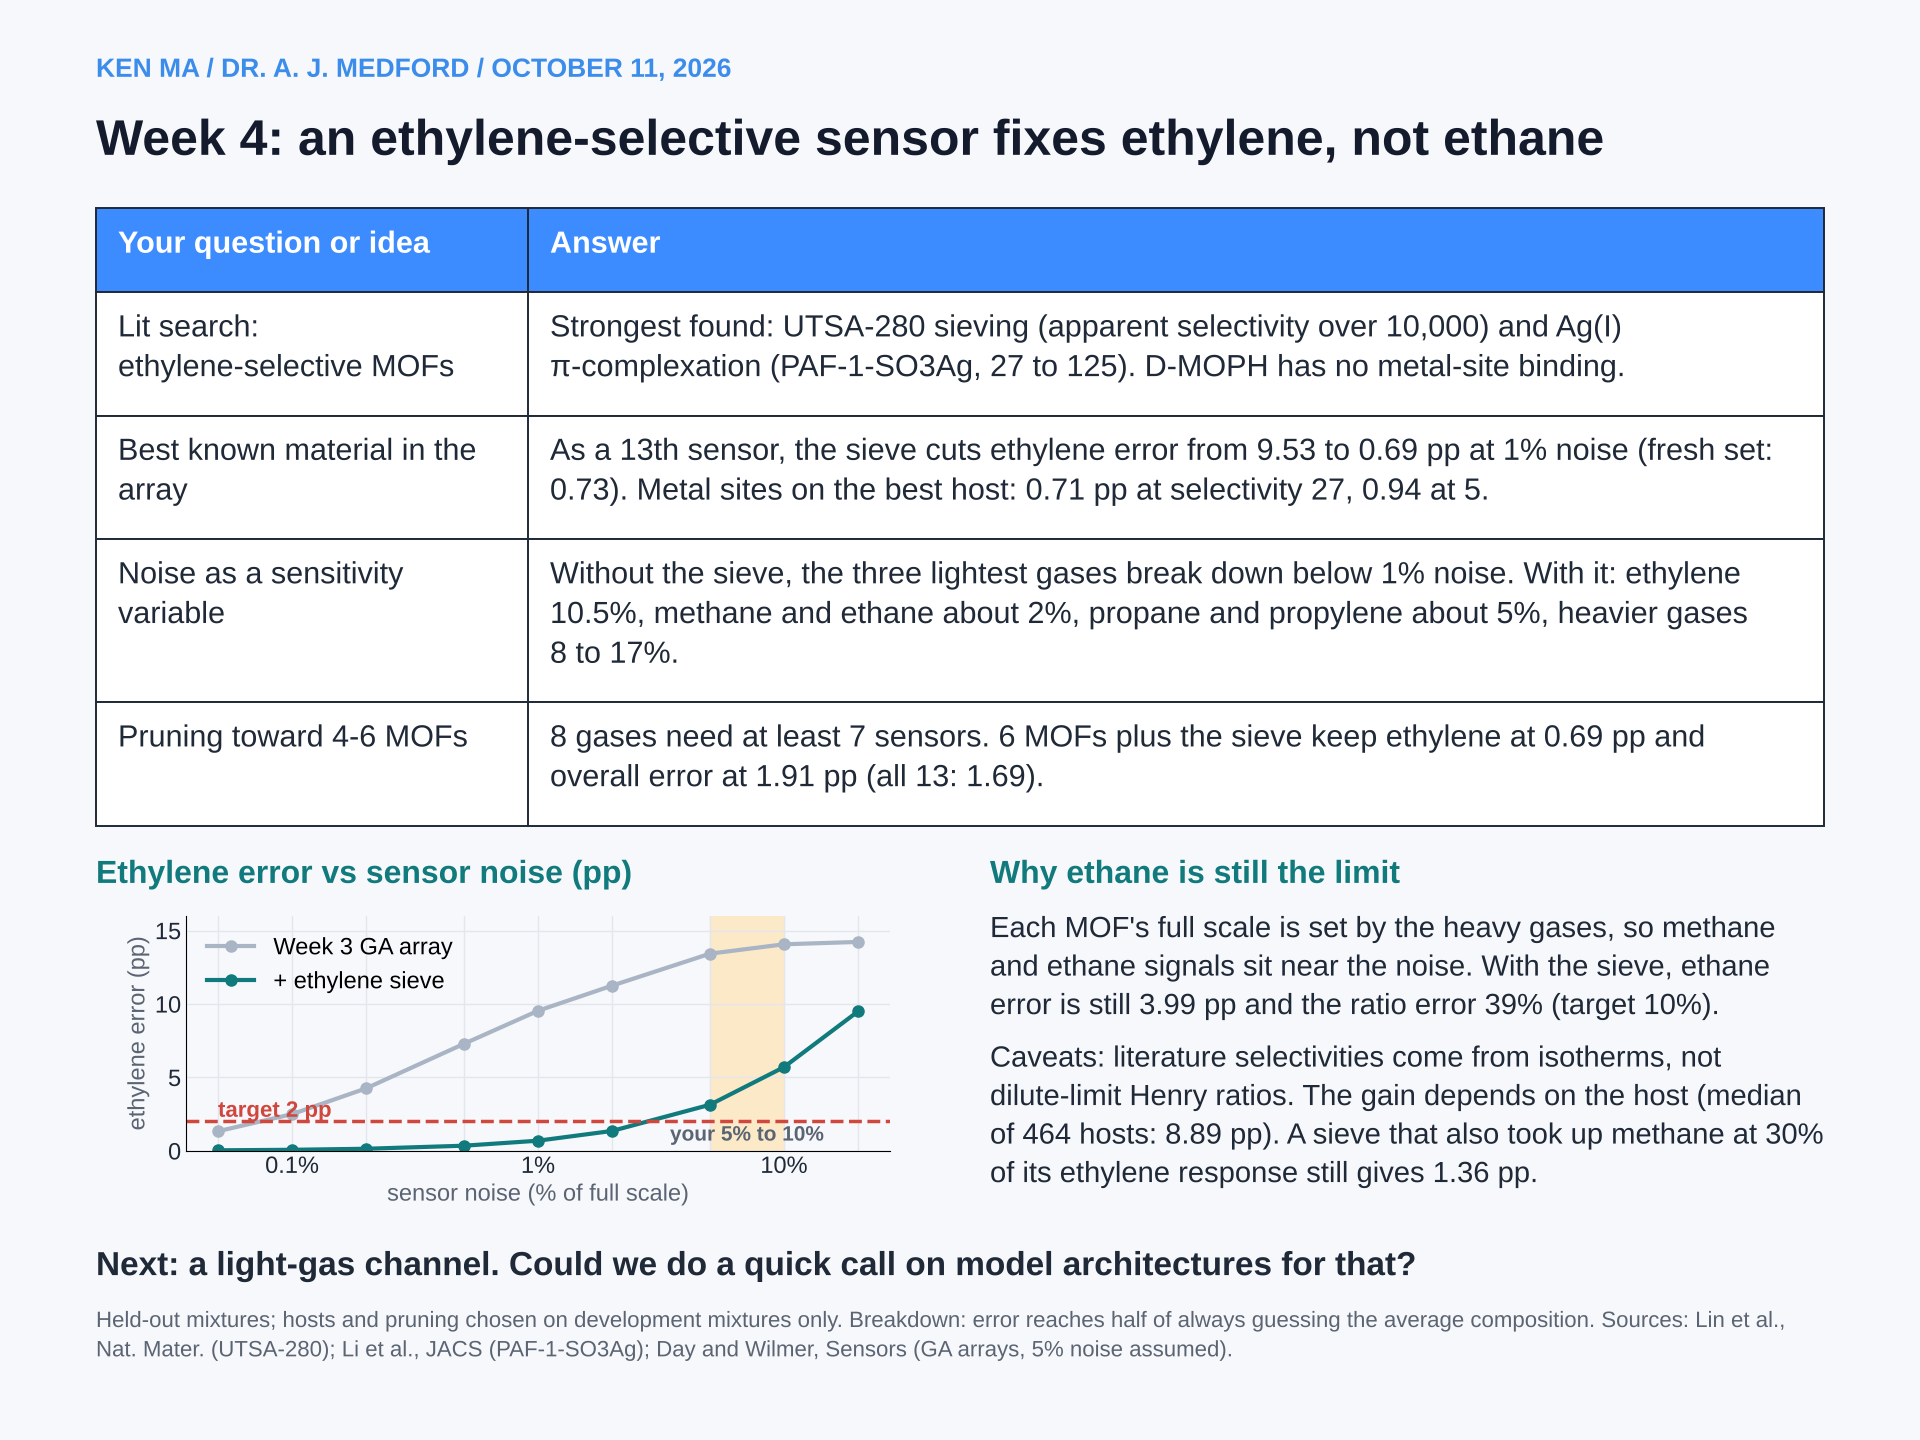
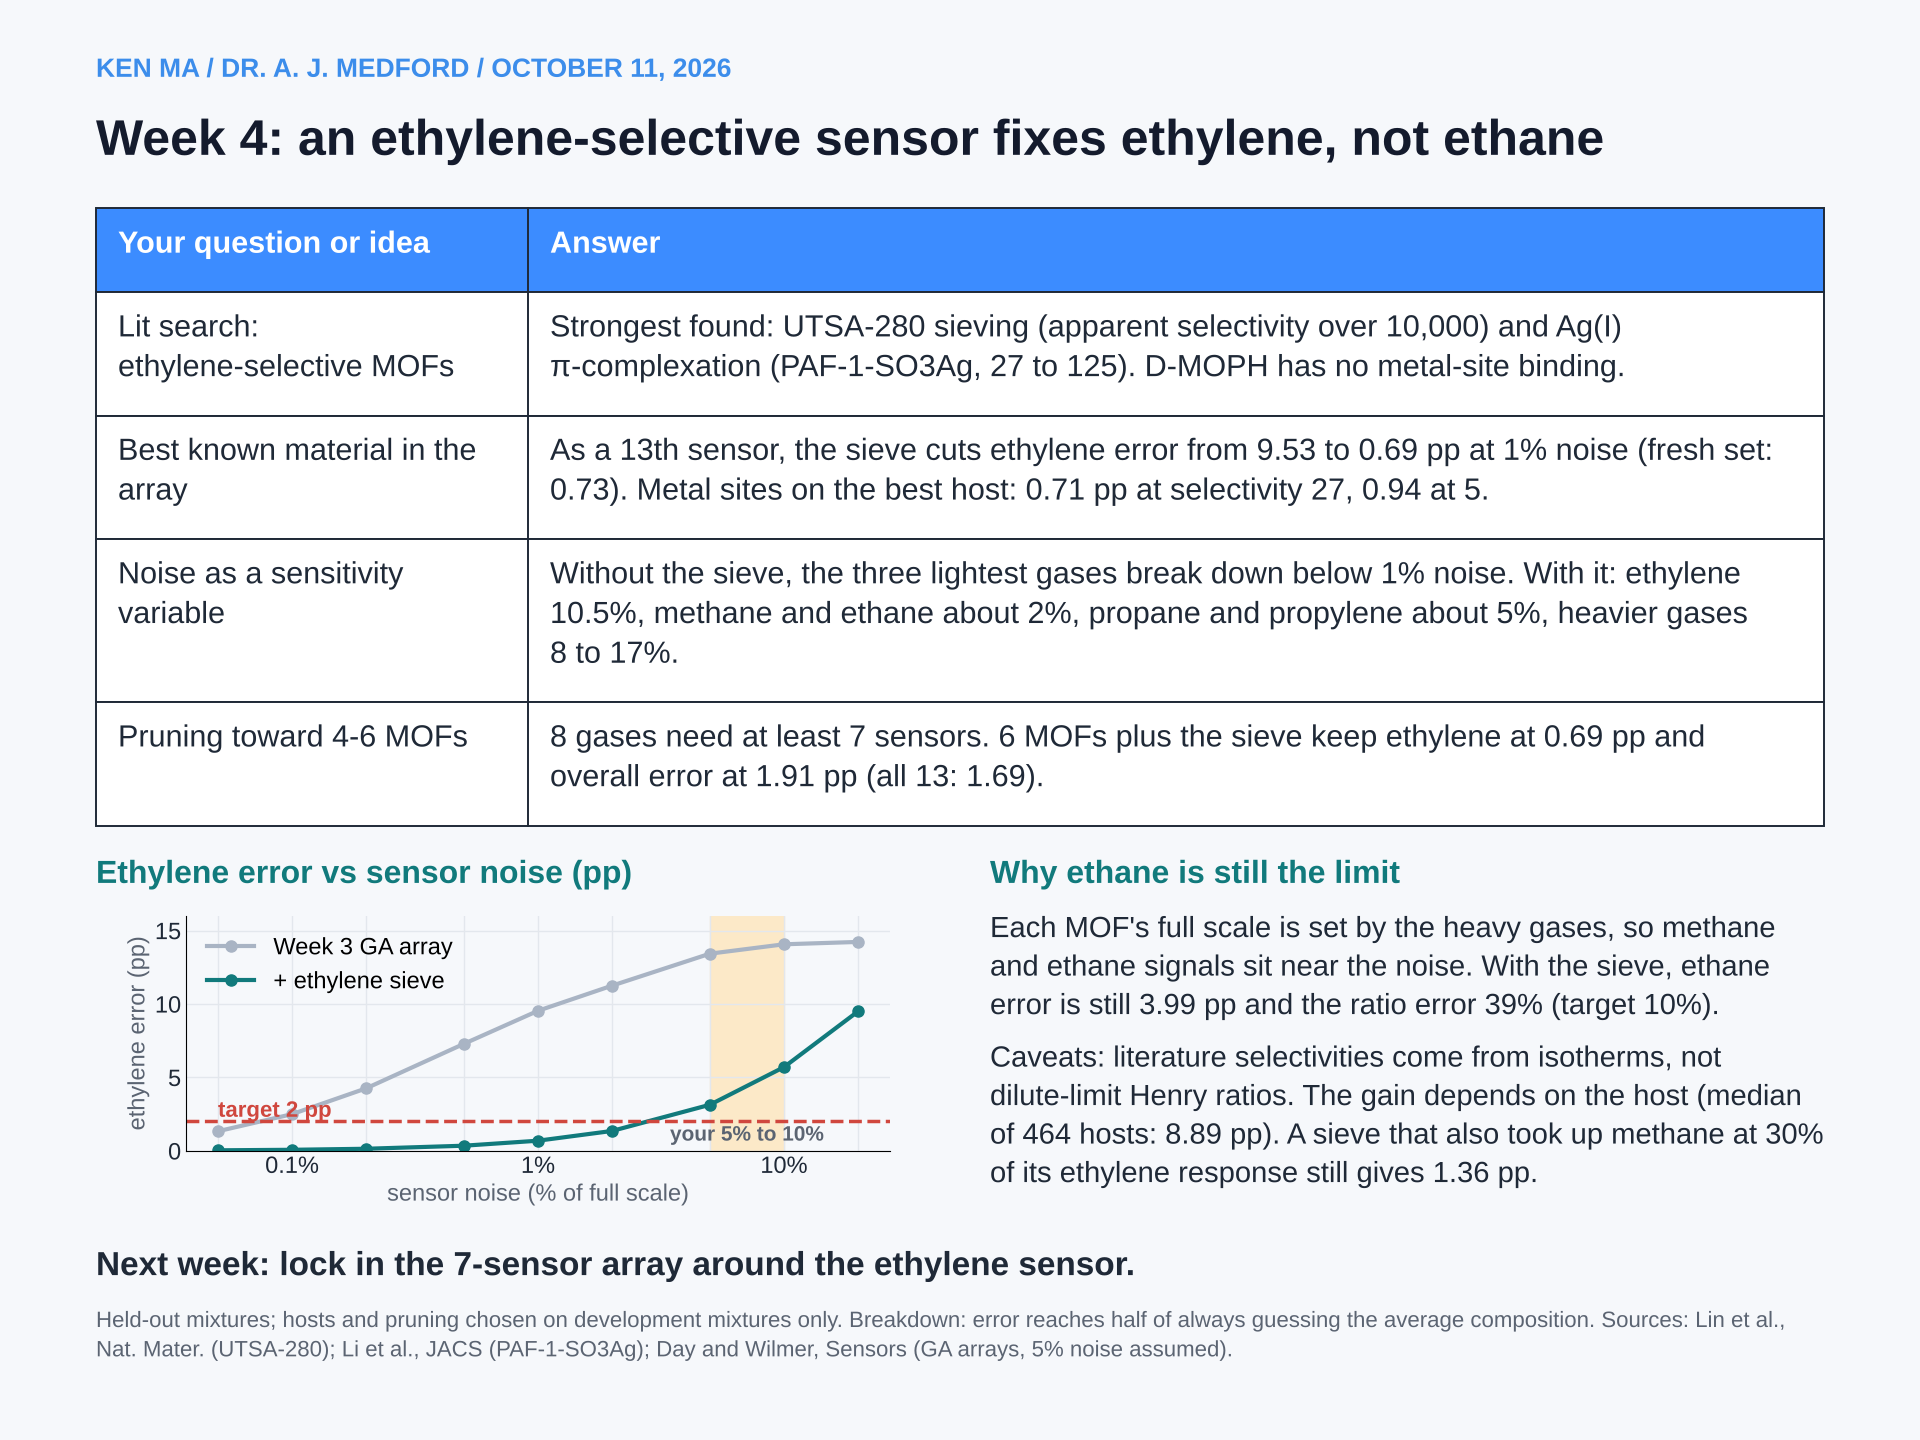
docs(week04): record Ken's decisions and simplify the card's closing line
Ethylene is the priority gas. Ken writes and sends the Slack message himself,
so the call question comes off the card and the closing line is now a simple
next-week plan: lock in the 7-sensor array around the ethylene sensor.

Claude-Session: https://claude.ai/code/session_01QZANQ5hB7ETPXgfPWAF1tu

Changed region(s): [[0.0938, 0.875, 0.7188, 0.9062]]

diff --git a/weeks/04/deliverables.py b/weeks/04/deliverables.py
@@ -116,7 +116,7 @@ card = [
                  f"host (median of {num(spread['n_frameworks'])} hosts: {pp(spread['median'])} pp). A sieve that also took up methane "
                  f"at {R.num(100*methane_fraction, '{:.0f}%')} of its ethylene response still gives {pp(methane30)} pp.", body),
     ], .5),
-    ('text', 'Next: a light-gas channel. Could we do a quick call on model architectures for that?',
+    ('text', f"Next week: lock in the {num(pruned['size'])}-sensor array around the ethylene sensor.",
      {'size': 24, 'weight': 'bold', 'after': 16}),
     ('text', "Held-out mixtures; hosts and pruning chosen on development mixtures only. "
              f"Breakdown: error reaches half of always guessing the average composition. Sources: Lin et al., Nat. Mater. (UTSA-280); "
@@ -131,7 +131,6 @@ TL;DR:
 - Adding one of these as a {added_n}th sensor cuts ethylene error from {pp(ga_e)} to {pp(sieve_e)} pp at {one} noise, and {num(pruned['size']-1)} MOFs plus that sensor hold it there.
 - Treating noise as the variable: ethylene now holds up to {noise(breakdown('ga+sieve', 'ethene'), '{:.1f}%')} noise, but methane and ethane break down near {noise(breakdown('ga+sieve', 'methane'), '{:.0f}%')}, so ethane ({pp(sieve_ethane)} pp) and the ratio are still the limit.
 
-Question: would you be open to a quick call this week? I'd love to hear what model architectures you'd propose for the next step, like using ODAC/UMA to screen frameworks that could host these ethylene sites, or a learned model in place of the least squares inversion.
 """
 
 name = f"week{int(r['week'])}_onepager"

diff --git a/notes/decisions.md b/notes/decisions.md
@@ -84,7 +84,12 @@
 
 - Ken's decision, recorded word for word: "dont send it broi, we need to do our weekly research and continue with the agenda and then ill approve"
 - Ken's decision, recorded word for word: "find the repos urself and run the research"
-- Pending Ken's approval: `weeks/04/slack_draft.md` (typed into the Slack DM composer, not sent) with `weeks/04/week4_onepager.png` as the attachment.
+- Ken's decision, recorded word for word: "Ethylene matters more" (his answer to Dr. Medford's question about how critical the ethane/ethylene pair is; ethylene stays a separate target rather than being lumped with ethane)
+- Ken's decision, recorded word for word: "I will write it myself" (Ken writes the Slack message; `weeks/04/slack_draft.md` is reference only)
+- Ken's decision, recorded word for word: "remove the next thing, i can ask myself" (the call question about model architectures was removed from the card; Ken asks Dr. Medford himself)
+- Ken's decision, recorded word for word: "ill send it myself"
+- Ken's decision, recorded word for word: "Make it simpler for the next weeks plan thing" (the card now ends with next week's plan: lock in the 7-sensor array around the ethylene sensor)
+- Ken's decision, recorded word for word: "push it , we are connected to github bro"
 
 ### AI decisions
 

diff --git a/weeks/04/slack_draft.md b/weeks/04/slack_draft.md
@@ -5,4 +5,3 @@ TL;DR:
 - Adding one of these as a 13th sensor cuts ethylene error from 9.53 to 0.69 pp at 1% noise, and 6 MOFs plus that sensor hold it there.
 - Treating noise as the variable: ethylene now holds up to 10.5% noise, but methane and ethane break down near 2%, so ethane (3.99 pp) and the ratio are still the limit.
 
-Question: would you be open to a quick call this week? I'd love to hear what model architectures you'd propose for the next step, like using ODAC/UMA to screen frameworks that could host these ethylene sites, or a learned model in place of the least squares inversion.
